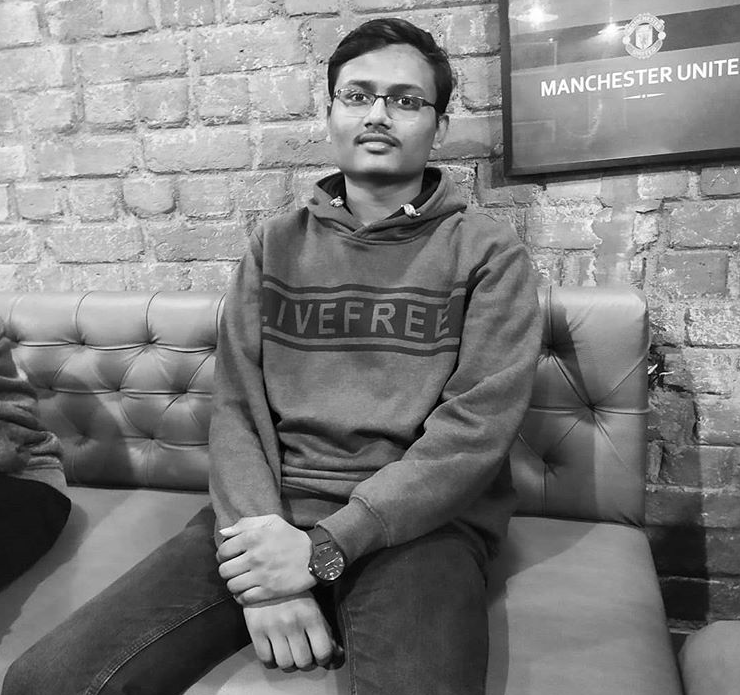
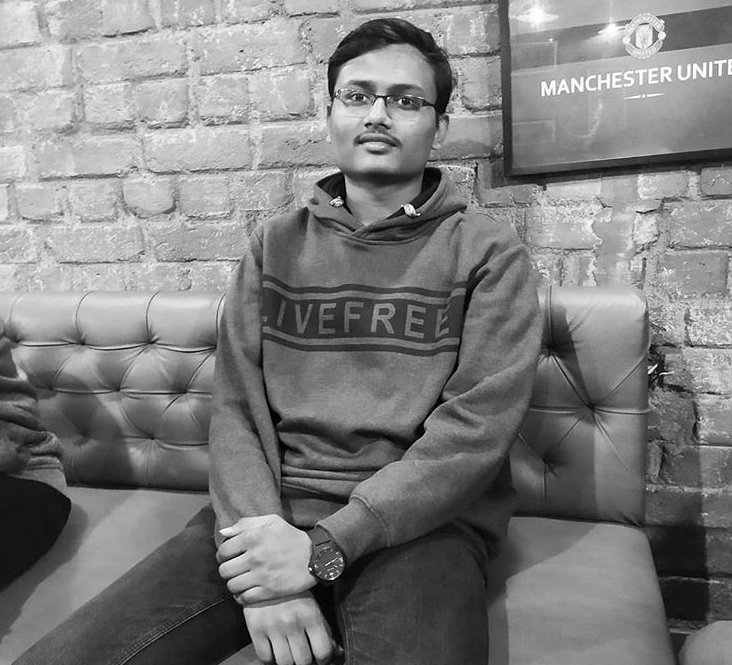
naman

diff --git a/contact.html b/contact.html
@@ -55,7 +55,7 @@
   <p><button>Contact No. 8269656676</button></p>
 </div>
 <div class="card" id="c3">
-  <img src="photos/pp1.jpg" alt="Shikhar" style="width:100%">
+  <img src="photos/pp.jpg" alt="Shikhar" style="width:100%">
   <h1 class="space">Shikhar Shukla</h1>
   <p class="title">Web Developer</p>
   <p class="space">Frontend</p>

diff --git a/contact.css b/contact.css
@@ -54,7 +54,7 @@ body::-webkit-scrollbar {
  }
   #c3{
   margin-left: 23.5%;
-  margin-top: -548px;
+  margin-top: -540px;
  }
 body::-webkit-scrollbar-track {
   background: #1e1e24;
@@ -66,7 +66,7 @@ body::-webkit-scrollbar-thumb {
 #contacts{
 margin: 20px;
 left: 17%;
-bottom: -1%;
+bottom: 0;
 position: absolute;
 }
 #map{
